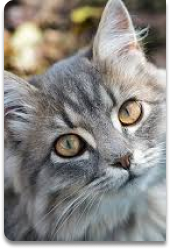
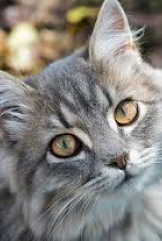
up fin de journée

diff --git a/pages_provisoires/page_provisoire_adoption/page_adoption.html b/pages_provisoires/page_provisoire_adoption/page_adoption.html
@@ -6,13 +6,60 @@
     <meta name="viewport" content="width=device-width, initial-scale=1.0">
     <title>Page Adoption</title>
     <link rel="stylesheet" href="style_adoption.css">
-    <link rel="stylesheet" href="style_commun.css">
+    <link rel="stylesheet" href="../style_commun.css">
 </head>
 <body>
     <main>
         <article class="card">
-            <div class="img" background-image="url('medias/chat_1.png')"></div>
-            <p><span class="underline">underline</span></p>
+            <div class="img" style="background-image: url('medias/chat_1.png');"></div>
+            <div class="desc">
+                <h2 class="title2">Bambou</h2>
+                <div class="badges">
+                    <img class="badge" src="medias/badges/enfants.svg" alt="">
+                    <img class="badge" src="medias/badges/exterieur.svg" alt="">
+                    <img class="badge" src="medias/badges/jouer.svg" alt="">
+                </div>
+                <p>
+                    <strong>Catégorie :</strong> Félin <br>
+                    <strong>Sexe :</strong> Femelle <br>
+                    <strong>Age :</strong> 2 ans <br>
+                </p>
+                <a href="" class="btn">En savoir plus</a>
+            </div>
+        </article>
+        <article class="card">
+            <div class="img" style="background-image: url('medias/chat_1.png');"></div>
+            <div class="desc">
+                <h2 class="title2">Bambou</h2>
+                <div class="badges">
+                    <img class="badge" src="medias/badges/enfants.svg" alt="">
+                    <img class="badge" src="medias/badges/exterieur.svg" alt="">
+                    <img class="badge" src="medias/badges/jouer.svg" alt="">
+                </div>
+                <p>
+                    <strong>Catégorie :</strong> Félin <br>
+                    <strong>Sexe :</strong> Femelle <br>
+                    <strong>Age :</strong> 2 ans <br>
+                </p>
+                <a href="" class="btn">En savoir plus</a>
+            </div>
+        </article>
+        <article class="card">
+            <div class="img" style="background-image: url('medias/chat_1.png');"></div>
+            <div class="desc">
+                <h2 class="title2">Bambou</h2>
+                <div class="badges">
+                    <img class="badge" src="medias/badges/enfants.svg" alt="">
+                    <img class="badge" src="medias/badges/exterieur.svg" alt="">
+                    <img class="badge" src="medias/badges/jouer.svg" alt="">
+                </div>
+                <p>
+                    <strong>Catégorie :</strong> Félin <br>
+                    <strong>Sexe :</strong> Femelle <br>
+                    <strong>Age :</strong> 2 ans <br>
+                </p>
+                <a href="" class="btn">En savoir plus</a>
+            </div>
         </article>
     </main>
 </body>

diff --git a/pages_provisoires/page_provisoire_adoption/style_adoption.css b/pages_provisoires/page_provisoire_adoption/style_adoption.css
@@ -2,16 +2,72 @@ body{
     margin: 0;
 }
 
+main{
+    display: flex;
+    justify-content: space-around;
+    flex-wrap: wrap;
+}
+
 .card{
     border-radius: 25px;
     box-shadow: 0px 0px 10px rgba(0, 0, 0, 0.25);
-    margin: 10px;
+    margin: 25px min(10px, 2.5vw);
     width: 95vw;
-    max-width: 600px;
-    height: 51.5vw;
-    max-height: 325px;
+    max-width: 450px;
+    height: 60vw;
+    max-height: 270px;
+    display: flex;
+    justify-content: space-between;
+}
+
+.desc{
+    width: 60%;
+    display: flex;
+    flex-direction: column;
+    align-items: center;
+    justify-content: space-around;
+}
+
+.btn{
+    align-self: flex-end;
+    margin-right: 12px;
+}
+
+.badge{
+    width: 11vw;
+    height: 11vw;
+    min-width: 40px;
+    min-height: 40px;
+    max-width: 50px;
+    max-height: 50px;
+    box-shadow: 0px 0px 5px rgba(0, 0, 0, 0.25);
+    margin: 0 1vw;
+    border-radius: 5px;
+    transition: 0.25s ease-in-out;
+}
+
+.badge:hover{
+    box-shadow: 0px 0px 1px rgba(0, 0, 0, 0.35);
+}
+
+.desc p{
+    margin: 0;
+    font-family: "Montserrat", sans-serif;
+    text-align: center;
 }
 
 .img{
-    height: 100px;
+    height: 100%;
+    width: 40%;
+    background-repeat: no-repeat;
+    background-size: cover;
+    background-position: center;
+    border-radius: 25px 0px 0px 25px;
+}
+
+.title2{
+    font-family: 'Exo 2', sans-serif;
+    font-size: 1.5rem;
+    margin: 0;
+    text-align: center;
 }

diff --git a/prod_blog/public/css/style_presentation.css b/prod_blog/public/css/style_presentation.css
@@ -12,6 +12,10 @@ body {
     font-size: 2.25rem;
 }
 
+.resFooter{
+    margin-top: 25px;
+}
+
 .intro, .desc{
     font-family: "Montserrat", sans-serif;
     width: 80vw;
@@ -43,6 +47,7 @@ section .title2{
 
 .imgWrap img{
     width: 40vw;
+    height: 40vw;
 }
 
 .imgWrap{
@@ -139,6 +144,10 @@ main{
 }
 
 @media (min-width: 800px){
+
+    .resFooter{
+        margin-top: 0;
+    }
     .reseaux{
         flex-direction: row;
         justify-content: space-around;
@@ -160,6 +169,7 @@ main{
     }
     .imgWrap img{
         width: 10vw;
+        height: 10vw;
     }
     .desc{
         width: 35vw;

diff --git a/prod_blog/public/css/style_blog.css b/prod_blog/public/css/style_blog.css
@@ -65,7 +65,8 @@ article a:hover{
     width: 40vw;
     max-width: 600px;
     margin: 5vh;
-    height: 65vh;
+    min-height: fit-content;
+    min-height: -moz-fit-content;
     justify-content: space-between;
     align-items: center;
   }
@@ -84,7 +85,6 @@ article a:hover{
     font-size: 1rem;
     width: 30vw;
     max-width: 500px;
-    padding: 0px 50px;
   }
   article .img {
     width: min(45vw, 450px);
@@ -96,6 +96,7 @@ article a:hover{
   article{
     width: 30vw;
     max-width: 330px;
+    height: 42.5vw;
   }
   article p{
     max-width: 350px;

diff --git a/pages_provisoires/style_commun.css b/pages_provisoires/style_commun.css
@@ -270,7 +270,7 @@ header>img {
   body *,
   body *::after,
   body *::before {
-    display: none;
+    display: none !important;
   }
 
   body::before {
@@ -282,6 +282,7 @@ header>img {
     font-family: 'Exo 2', sans-serif;
     height: 100vh;
     position: fixed;
+    top: 0;
   }
 }
 

diff --git a/prod_blog/public/css/style.css b/prod_blog/public/css/style.css
@@ -270,7 +270,7 @@ header>img {
   body *,
   body *::after,
   body *::before {
-    display: none;
+    display: none !important;
   }
 
   body::before {
@@ -282,6 +282,7 @@ header>img {
     font-family: 'Exo 2', sans-serif;
     height: 100vh;
     position: fixed;
+    top: 0;
   }
 }
 

diff --git a/prod_blog/view/presentationView.php b/prod_blog/view/presentationView.php
@@ -108,8 +108,8 @@ ob_start();
       <a class="btn" href="https://www.instagram.com/zoelatortue_/">Mieux me connaître</a>
     </section>
   
-    <section>
-      <h2 class="title2 tres">Nos Réseaux</h2>
+    <section class="resFooter">
+      <h2 class="title2">Nos Réseaux</h2>
       <div class="reseaux">
         <a href="https://www.facebook.com/appli.zoey">
           <img src="<?= BASE_URL ?>public/images/presentation/facebook.svg" alt="">
